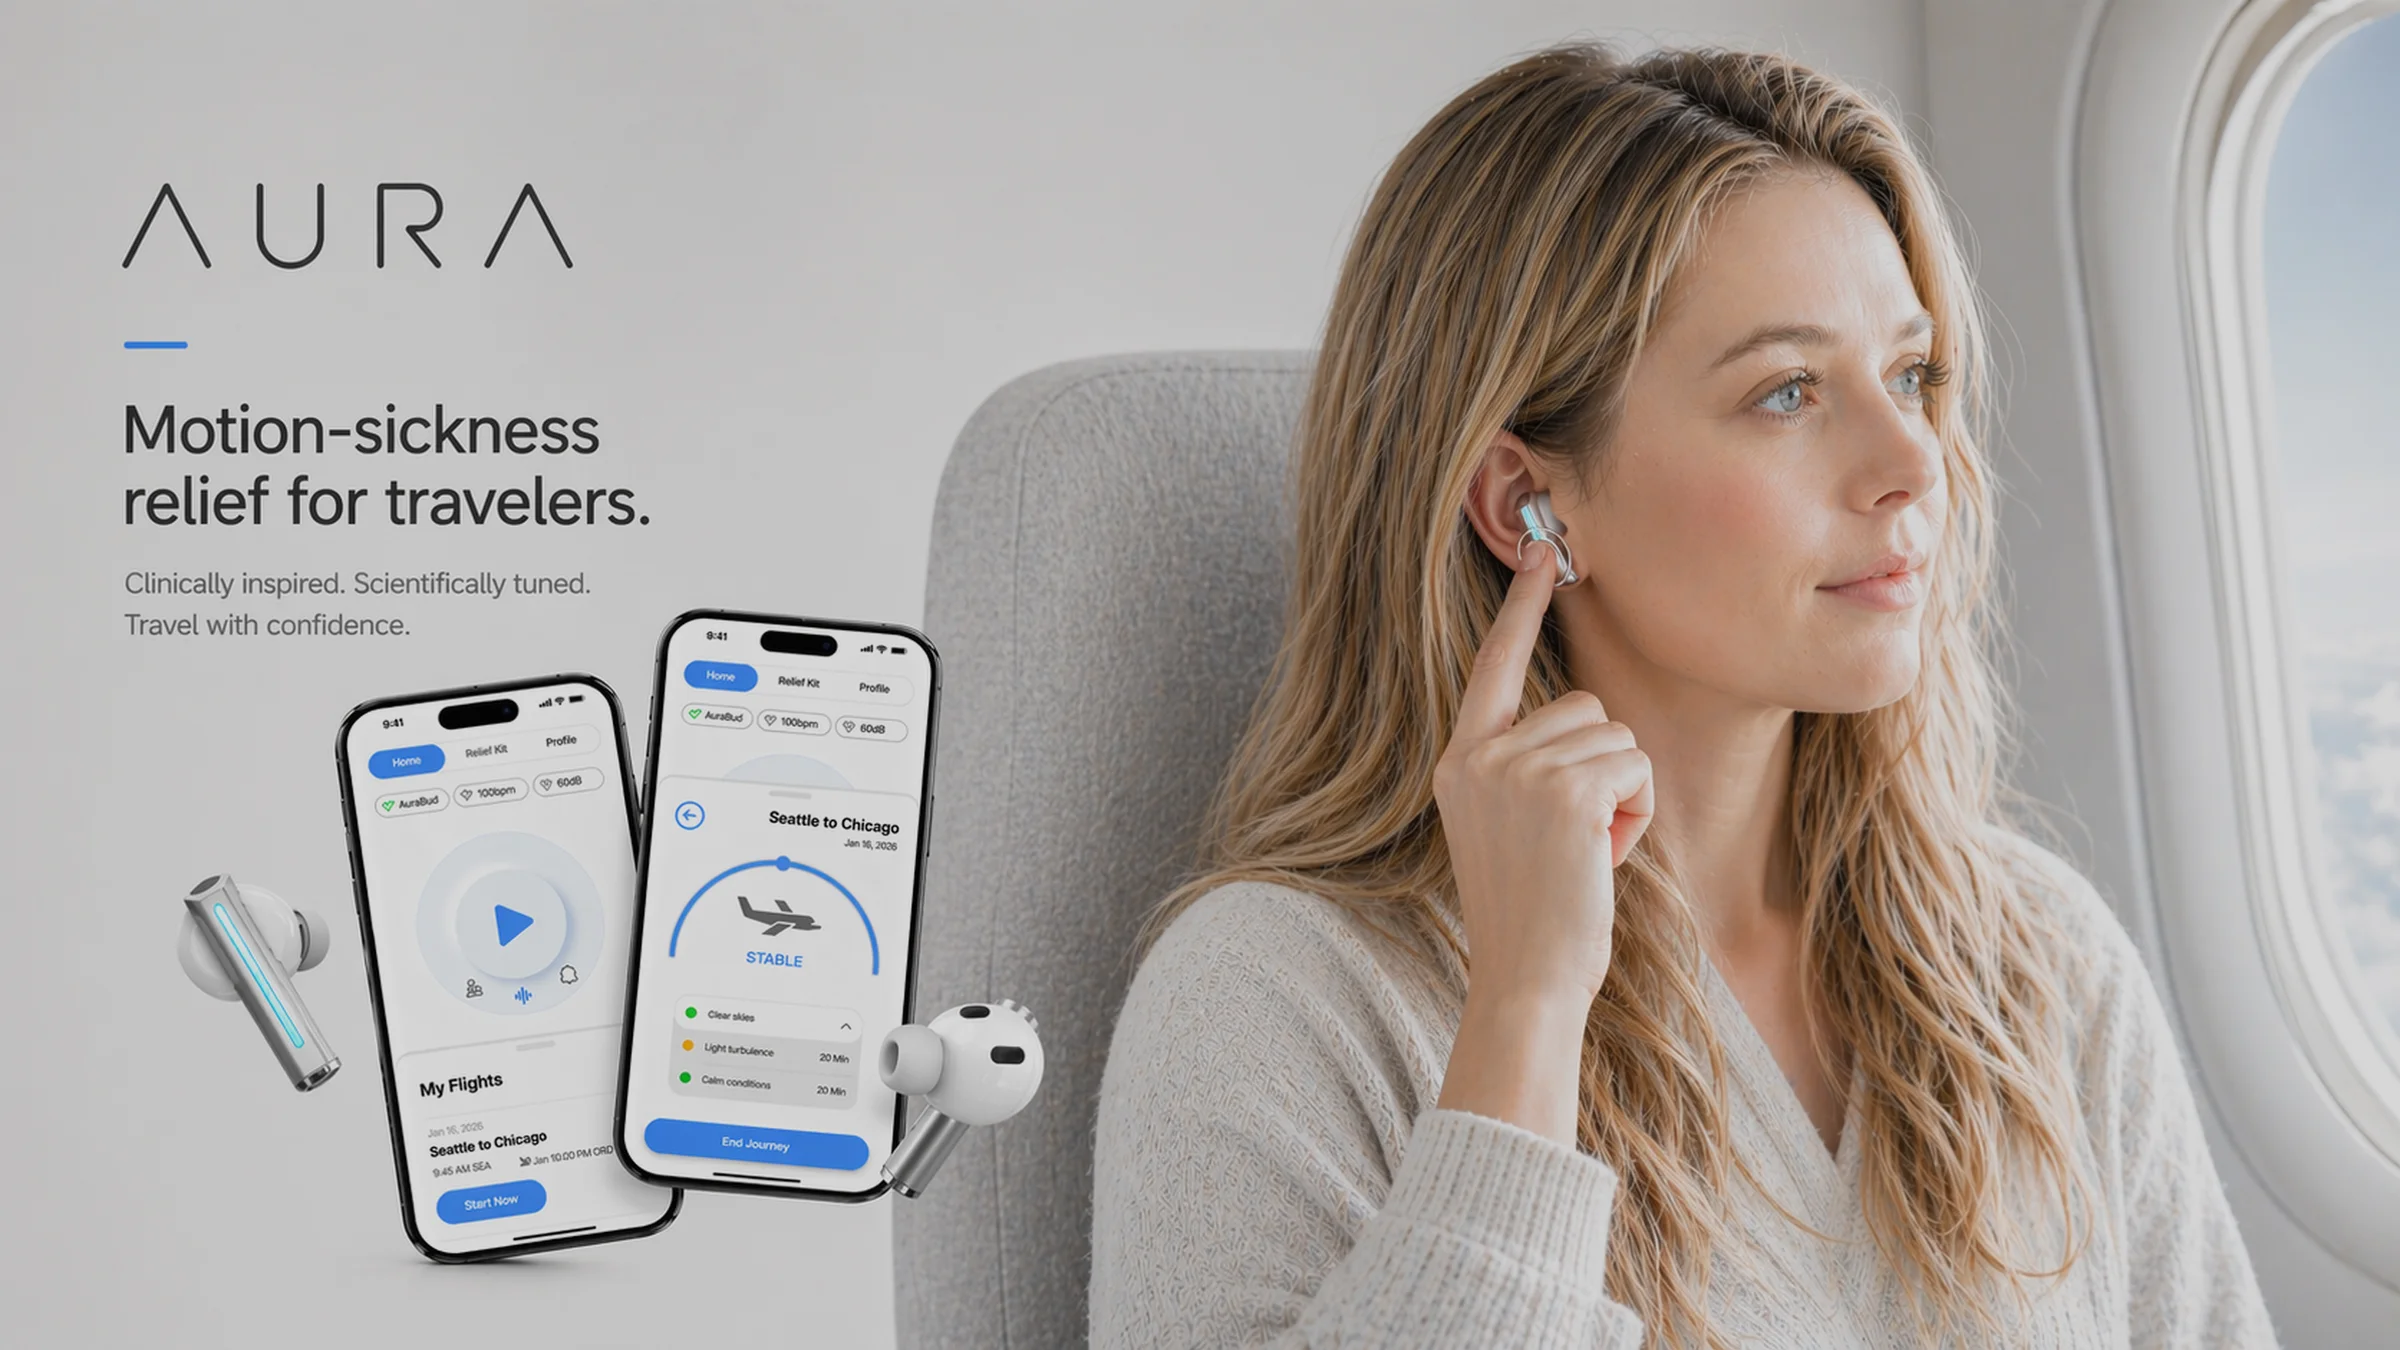
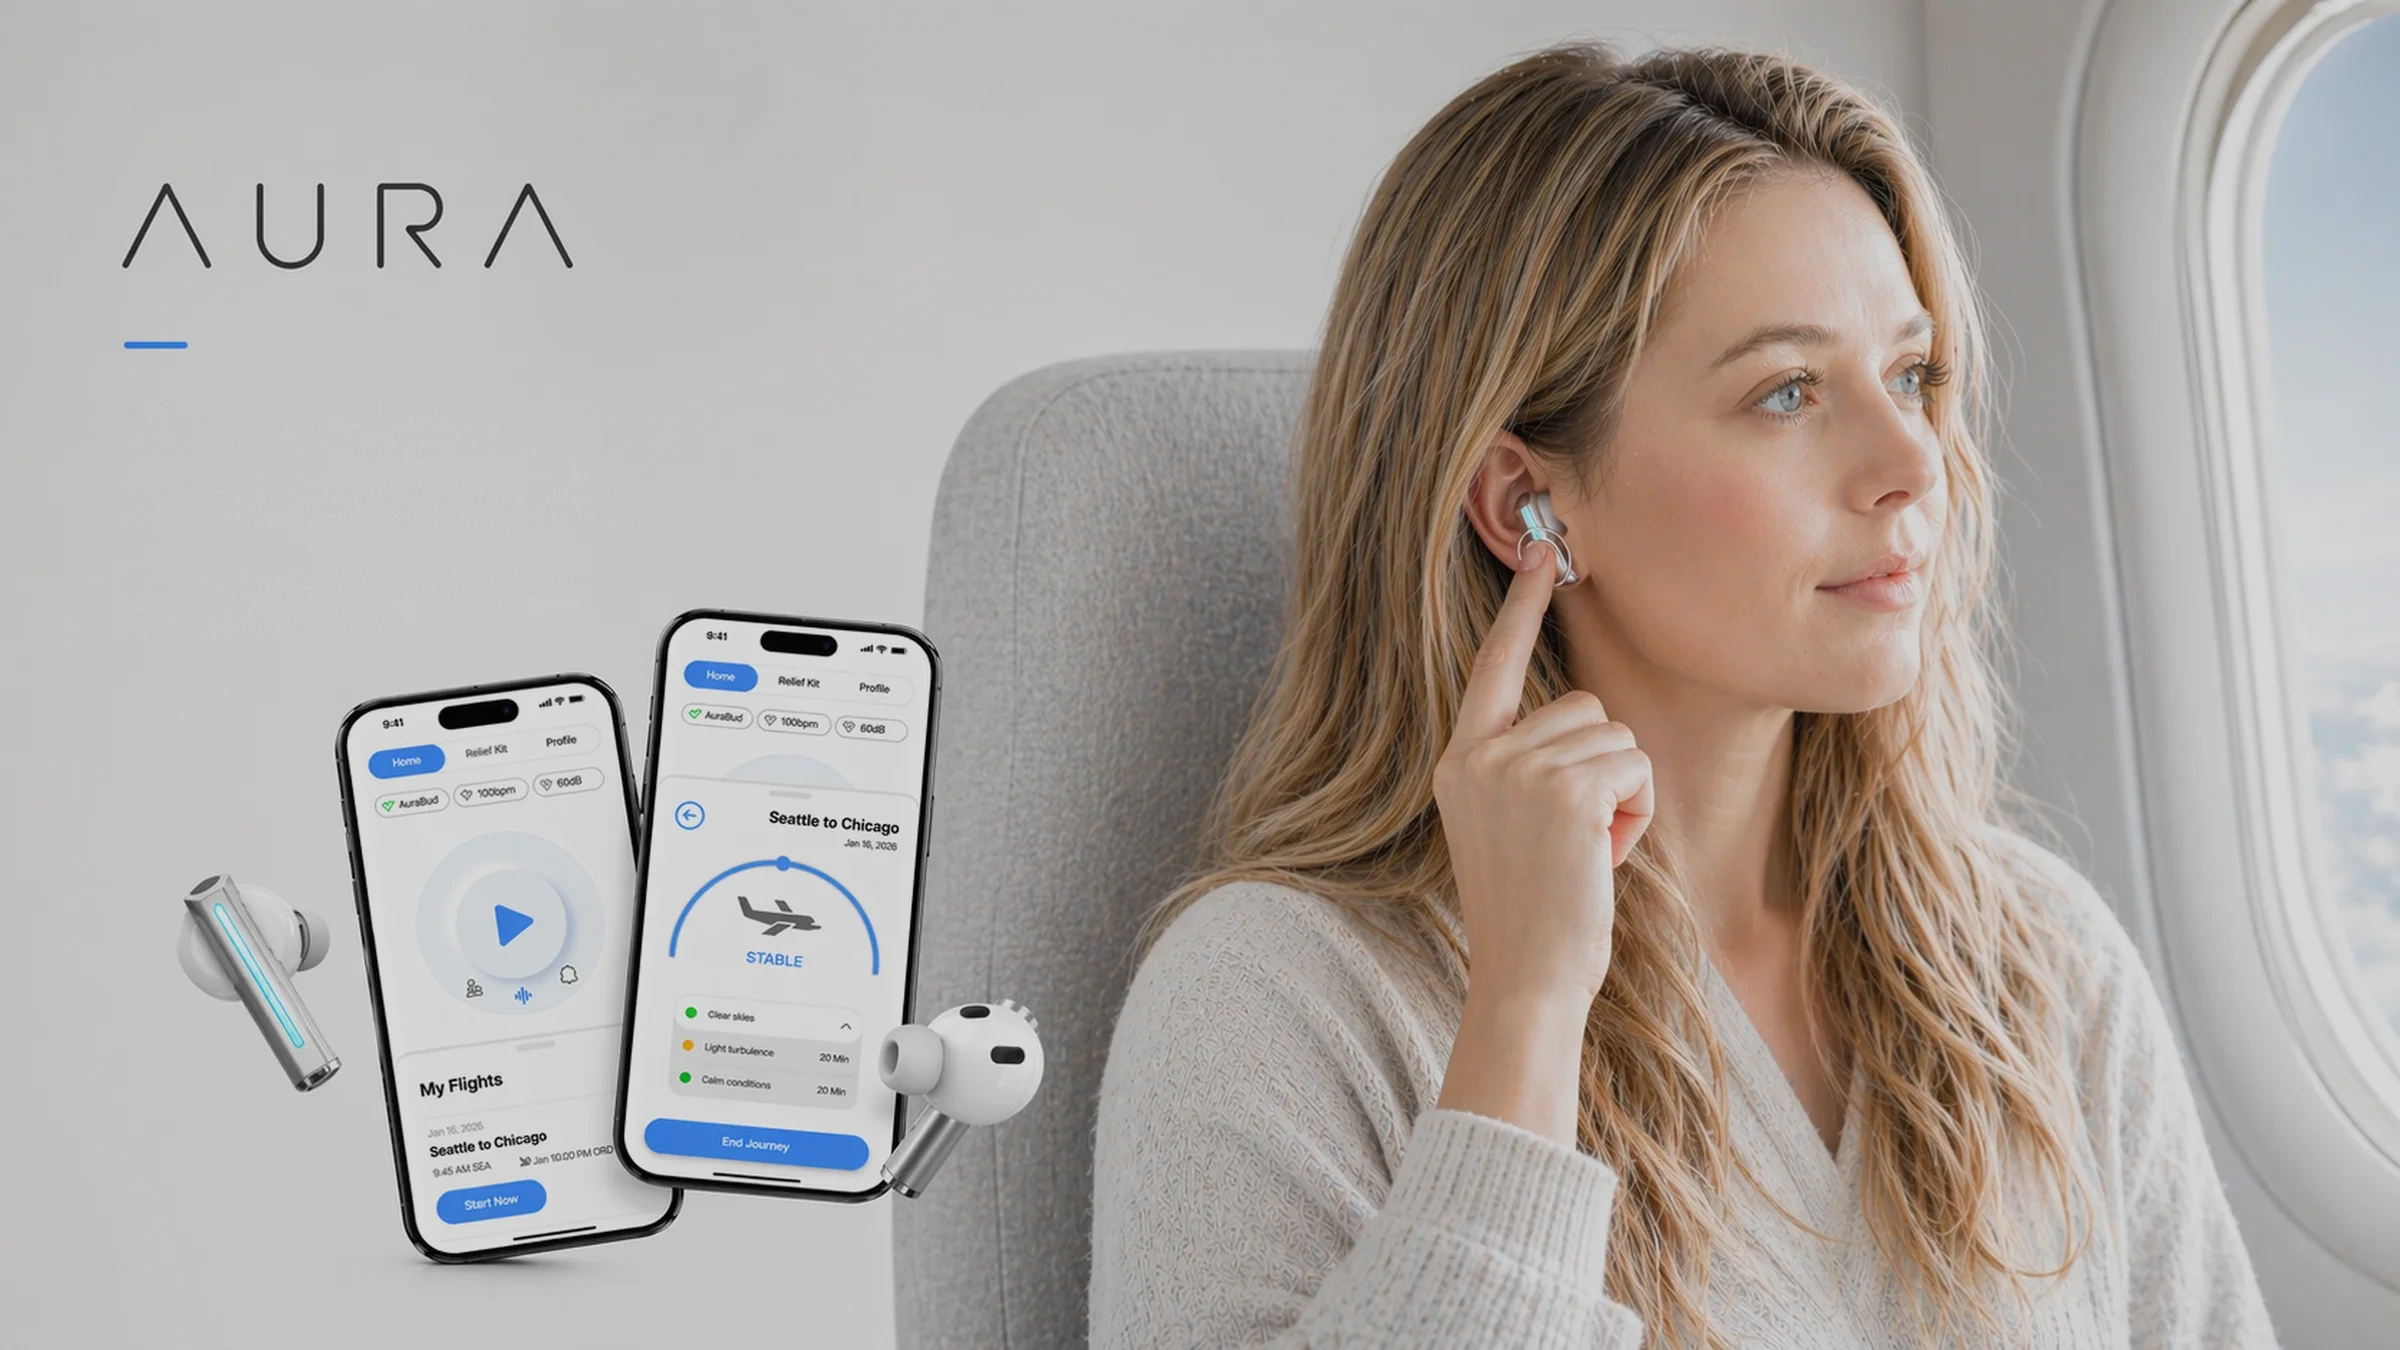
Make the Aura cover a title card like its siblings
The card was printing the pitch twice: a headline and a two-line subhead
inside the image, next to the signal and description the card already
sets in type beside it. The cover is now the same full-bleed ground,
wordmark, and product that Moti's and NeuraLyfe's covers use, and the
words are left to the card.

Changed region(s): [[0.0312, 0.3111, 0.2812, 0.4667]]

diff --git a/src/data/projects.ts b/src/data/projects.ts
@@ -155,6 +155,11 @@ export const PROJECTS: readonly Project[] = [
     description: "A speculative in-flight motion-sickness concept. Its refined form was preferred by 93.75% of testers.",
     role: "Product Designer",
     year: "2025",
+    // A title card, like Moti's and NeuraLyfe's: its own full-bleed ground, the
+    // wordmark, and the product. The headline and the two-line subhead that used
+    // to sit under the wordmark are gone — the card prints the signal and the
+    // description right beside the image, so the picture was setting the pitch a
+    // second time in a second typeface.
     coverImage: auraCover,
     coverAspect: "2400/1350",
     details: "A speculative concept for anticipating motion sickness in flight, designed with a 5-person team over 5 weeks.\n\nUser testing validated the refined form: 15 of 16 testers (93.75%) preferred it over the initial design.",

diff --git a/docs/superpowers/specs/2026-09-03-aura-cover-simplification-design.md b/docs/superpowers/specs/2026-09-03-aura-cover-simplification-design.md
@@ -1,0 +1,98 @@
+# Aura cover: less type, same title card
+
+**Date:** 2026-09-03
+**Status:** implemented
+
+## The house language
+
+Every Selected Work cover is a **full-bleed title card that owns its frame**:
+its own ground, edge to edge, rounded corners, with the wordmark set on it.
+
+- **Moti** — a light grey ground, the app icon, the "Moti: Plan" wordmark, a phone.
+- **NeuraLyfe** — a photographed field, the wordmark, a rule beneath it, the
+  helmet, and two lines of copy.
+
+Type inside the cover is not a defect here. It is the pattern. NeuraLyfe carries
+a wordmark, a rule, and two lines; Moti carries a wordmark.
+
+This matters because it was got wrong once already. An earlier pass in this same
+session replaced the cover with a transparent PNG of the product group floating
+on the page background. It had no ground and no frame, so it was the only card
+on the page without a card, and it read as a broken asset beside the other two.
+Reverted.
+
+## Problem with the original
+
+Aura's cover was already a title card with a ground. It simply carried more than
+the pattern allows: the wordmark **and** a blue rule **and** a two-line headline
+("Motion-sickness relief for travelers.") **and** a two-line subhead ("Clinically
+inspired. Scientifically tuned. / Travel with confidence.").
+
+Four lines of copy, when the card prints the signal and the description in the
+column right beside the image. The pitch was set twice, in two typefaces.
+
+## Decision
+
+Keep the composition, the ground, the product, and the wearer. Keep the wordmark
+and the blue rule, which is exactly the pairing NeuraLyfe's cover uses. Remove
+the headline and the subhead.
+
+Nothing is moved, rescaled, or recomposed. The only edit is erasing four lines of
+type off a flat wall.
+
+## How the type was removed
+
+The wall behind the copy is nearly flat (luminance 185-192), so it can be
+reconstructed rather than cloned. Within two measured regions:
+
+1. Mask everything below luminance 178, then dilate by 9px to catch antialiasing.
+2. Least-squares fit a quadratic surface per channel to the **unmasked** pixels only.
+3. Write the fitted surface into the masked pixels, plus Gaussian grain at the
+   wall's own sigma (2.57) so the patch is not suspiciously smooth.
+
+Fitting only clean pixels is the point. A first attempt interpolated from each
+rectangle's boundary ring instead, and because the boundary clipped the subhead's
+descenders it dragged ink vertically through the patch as visible streaks.
+
+The region bounds are measured, not estimated, and stop short of the mockups:
+
+| Region | Bounds | Why it stops there |
+| --- | --- | --- |
+| Headline + subhead line 1 | x 55-720, y 358-604 | The right phone's corner enters at y 604. |
+| Subhead line 2 | x 55-640, y 604-650 | The right phone occupies x >= 650; the left phone's corner enters at y 668. |
+
+Residual after the fill is 45 pixels deviating more than 14 from the wall tone,
+against a wall that natively varies by 7 and carries grain of sigma 2.57. That is
+noise, not ink.
+
+`coverAspect` stays `"2400/1350"`: same pixels, same frame, only quieter.
+
+## Changes
+
+| File | Change |
+| --- | --- |
+| `src/assets/aura-cover.webp` | Headline and subhead removed. Same dimensions, same composition. |
+| `src/data/projects.ts` | Comment recording why the cover is a title card and what came off it. |
+
+## Non-goals
+
+- The upper-left is airier than it was, since four lines came off it. The
+  wordmark and rule still anchor that corner, so it reads as space rather than
+  as a hole. Rebalancing would mean moving the product group, which the flat
+  export cannot support: there is no clean plate behind it, and an attempt to
+  reconstruct the seat edge came out visibly stepped. That needs the layered
+  source.
+- `aura-detail-1.webp`, the dark twin of this key visual, still carries the same
+  wordmark and subhead further down the case study.
+- No copy changes, and no change to any other project's cover.
+
+## Verification
+
+- `coverAspect.test.ts` reads the real WebP header; `"2400/1350"` still matches.
+- Typecheck clean, full suite green apart from a failure that predates this work
+  (`homepageSections` — Spatial Editor is a placeholder card with no click
+  target; confirmed failing at HEAD).
+- Console and network clean on the homepage, the case study, and the
+  design-system page.
+- Visual check of all three Selected Work rows together, which is the comparison
+  that should have been made first.
